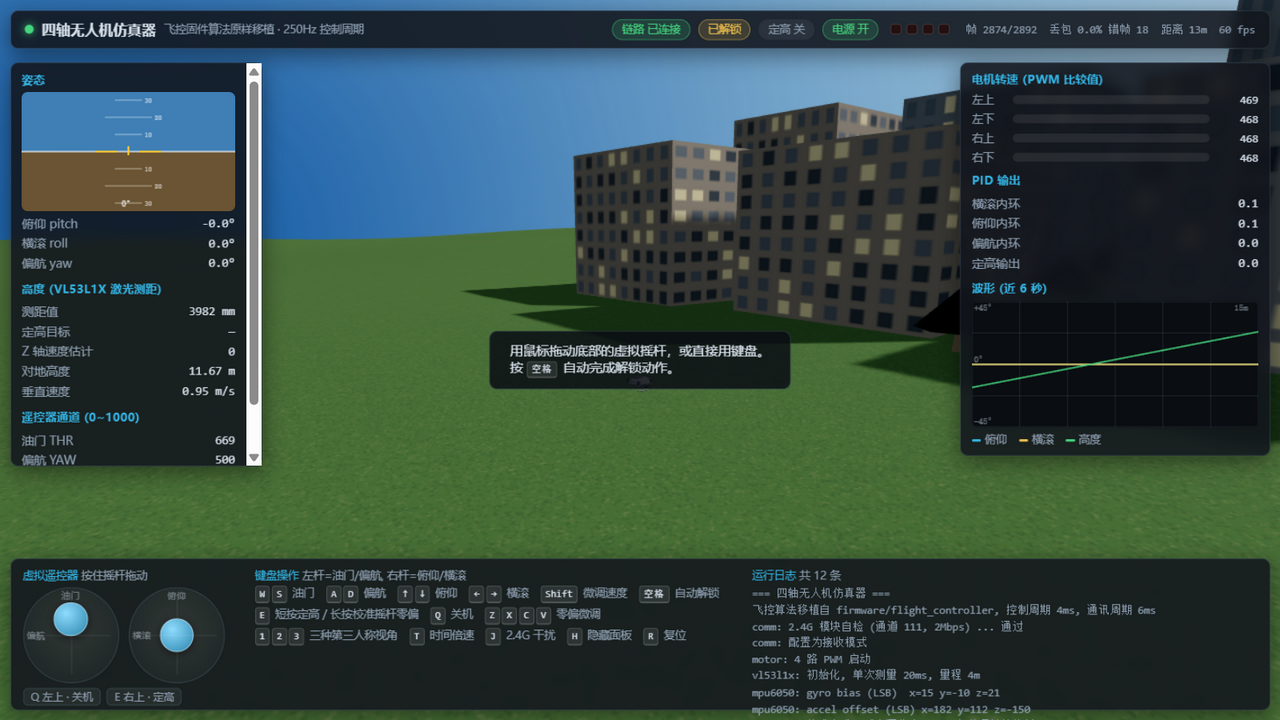
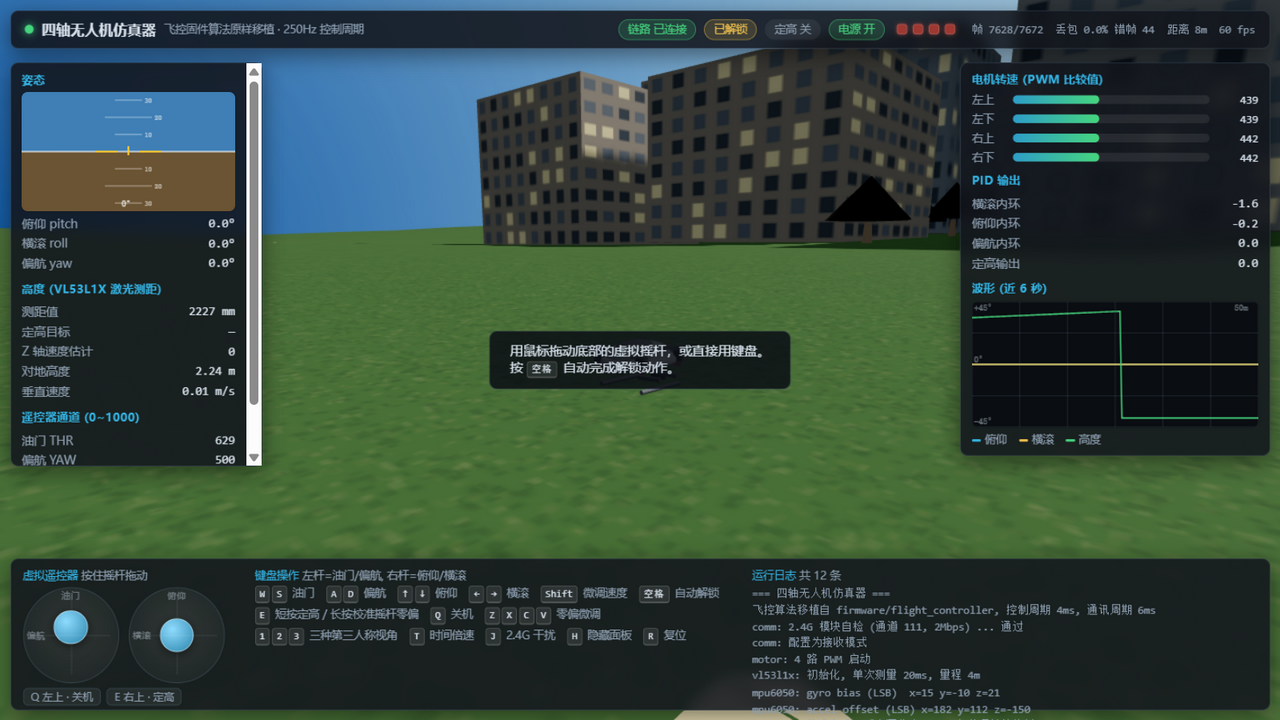
修复摇杆圆点出圈与机身过小, 并修正一处导致桨叶不显示的常量缺失
Bug 1: 键盘推杆时摇杆圆点飞出圆圈
- input.update() 里键盘增量累加后没有限幅, 一直按住方向键会把通道推到
  1000 以上(实测到过 1139), 于是换算旋钮位置时得到 1.26 个半径, 圆点出圈。
  现在四个通道在 update() 末尾统一夹到 0~1000。
- 另外即使限幅到 1000, 旋钮"圆心"也会落在圆周上, 旋钮一半在圈外。
  syncStickDom 改为按"摇杆半径 - 旋钮半径"限制位移, 并把偏移向量限制在
  单位圆内再缩放 —— 只分别夹 x/y 是不够的, 斜向推到底时偏移是单轴的 √2 倍。
  实测: 单轴与斜向推到底, 旋钮外沿距圆心 47.1px < 半径 48px, 全程在圈内。
- 窗口尺寸变化时清掉缓存的像素尺寸(媒体查询会改变摇杆大小)。

Bug 2: 螺旋桨一直没被渲染
- main.js / hud.js 用了 cfg.MOTOR_MAX, 但这个常量从没在 config.js 里定义过
  (它在 state.js 里叫 QC.state.MOTOR_MAX), 于是 `0 / undefined = NaN`:
  桨叶 rotation.z 被写成 NaN 后再也没转回来, 4 个桨全部不显示; HUD 的电机
  转速条也因为 width 拼出 "NaN%" 而被浏览器丢弃, 永远停在 0 宽。
- 规范常量到 config.js(MOTOR_STOP / MOTOR_MAX, 本来就是固件 Com_Config.h 的
  常量), state.js 改为引用它, 避免两处各写一份。
- 桨叶旋转增量加有限性保护: 一旦算出非有限值就跳过这一帧。
- 自检新增两节(共 41 项):
    * 静态扫描全部源码里的 cfg.X / QC.config.X / QC.state.X, 断言都真实存在
    * 逼出饱和输出后断言所有电机值仍落在 0~1000

机身显示放大
- 物理上仍是 0.055kg / 100mm 轴距的微型四轴, 但按 3 倍绘制: 真实尺寸在
  6 米外只有二十来个像素, 看不清姿态。缩放只作用于渲染, 模型起落架底面
  对齐到 group 原点, 所以放大后仍然踩在地面上, 动力学完全不受影响。
- 默认第三人称追尾相机距离 6.5m -> 4.6m, 缩放范围同步调整。

摇杆零偏真正生效
- 微调键(Z/X/C/V)原先只改一个显示数字, 现在按固件的顺序参与通道换算:
  极性映射之后再扣零偏并限幅, 与 App_DataProcess 的 PolarityAndRange +
  JoystickWithBias 一致。

README 图片全部重拍
- 之前的截图里桨叶缺失、机身偏小, 4 张图已用新模型重拍并逐一做了像素校验

diff --git a/simulator/js/world/world.js b/simulator/js/world/world.js
@@ -85,7 +85,8 @@
        没有使用任何大疆的模型或贴图资源。
        机体系: X 前, Y 右, Z 上; 电机位置与 dynamics.js 的 MOTOR_LAYOUT 一致。 */
     function buildDrone() {
-        var g = new THREE.Group();
+        var g = new THREE.Group();        /* 外层: 承担显示缩放 */
+        var inner = new THREE.Group();    /* 内层: 机身部件本身 */
 
         /* 材质: 白色亮面外壳 + 深色机臂 + 金属电机 + 半透明深色桨 */
         var shellMat = new THREE.MeshStandardMaterial({ color: 0xf0f2f4, roughness: 0.34, metalness: 0.06 });
@@ -104,29 +105,29 @@
         lower.scale.set(0.056, 0.043, 0.0135);
         lower.position.set(0, 0, 0.001);
         lower.castShadow = true;
-        g.add(lower);
+        inner.add(lower);
 
         var upper = new THREE.Mesh(new THREE.SphereGeometry(1, 26, 16), shellMat);
         upper.scale.set(0.047, 0.035, 0.016);
         upper.position.set(-0.003, 0, 0.009);
         upper.castShadow = true;
-        g.add(upper);
+        inner.add(upper);
 
         /* 顶部电池盖 */
         var hatch = new THREE.Mesh(new THREE.SphereGeometry(1, 18, 12), shellDark);
         hatch.scale.set(0.033, 0.024, 0.009);
         hatch.position.set(-0.006, 0, 0.017);
-        g.add(hatch);
+        inner.add(hatch);
 
         /* 机头前脸(深色) + 前视避障窗 */
         var face = new THREE.Mesh(new THREE.SphereGeometry(1, 18, 12), shellDark);
         face.scale.set(0.016, 0.033, 0.012);
         face.position.set(0.043, 0, 0.004);
-        g.add(face);
+        inner.add(face);
 
         var visor = new THREE.Mesh(new THREE.BoxGeometry(0.0035, 0.020, 0.007), glassMat);
         visor.position.set(0.0505, 0, 0.005);
-        g.add(visor);
+        inner.add(visor);
 
         var L = QC.config.DRONE.armLength;
         var a = L / Math.SQRT2;
@@ -167,15 +168,15 @@
             arm.rotation.z = Math.atan2(py, px);
             arm.rotation.y = -0.05;
             arm.castShadow = true;
-            g.add(arm);
+            inner.add(arm);
 
             /* 电机座 + 桨帽 */
             var nacelle = new THREE.Mesh(nacelleGeo, motorMat);
             nacelle.position.set(px, py, 0.006);
-            g.add(nacelle);
+            inner.add(nacelle);
             var cap = new THREE.Mesh(capGeo, shellDark);
             cap.position.set(px, py, 0.0125);
-            g.add(cap);
+            inner.add(cap);
 
             /* 桨: 两片对置叶片, 单独一个 Group 以便旋转 */
             var prop = new THREE.Group();
@@ -187,7 +188,7 @@
             }
             var hub = new THREE.Mesh(hubGeo, shellDark);
             prop.add(hub);
-            g.add(prop);
+            inner.add(prop);
             props.push({ mesh: prop, dir: m.c > 0 ? 1 : -1 });
         }
 
@@ -207,7 +208,7 @@
         lens.rotation.z = Math.PI / 2;
         lens.position.set(0.014, 0, -0.011);
         gimbal.add(lens);
-        g.add(gimbal);
+        inner.add(gimbal);
 
         /* --- 起落架: 两条支腿 + 两根滑橇 --- */
         var legGeo = new THREE.CylinderGeometry(0.0026, 0.0032, 0.030, 8);
@@ -218,11 +219,11 @@
             [-1, 1].forEach(function (fx) {
                 var leg = new THREE.Mesh(legGeo, shellDark);
                 leg.position.set(fx * 0.016, s * 0.030, -0.017);
-                g.add(leg);
+                inner.add(leg);
             });
             var skid = new THREE.Mesh(skidGeo, shellDark);
             skid.position.set(0, s * 0.0345, -0.0305);
-            g.add(skid);
+            inner.add(skid);
         });
 
         /* --- 4 个 LED: 与固件一致, 位置对应四个机臂 --- */
@@ -236,10 +237,24 @@
             var led = new THREE.Mesh(ledGeo, ledMats[k]);
             /* 装在电机座下沿, 从侧面能看见 */
             led.position.set(ledPos[k][0] * 0.94, ledPos[k][1] * 0.94, -0.0035);
-            g.add(led);
+            inner.add(led);
         });
 
-        g.traverse(function (o) { if (o.isMesh && o.material !== propMat) o.castShadow = true; });
+        inner.traverse(function (o) { if (o.isMesh && o.material !== propMat) o.castShadow = true; });
+
+        /*
+         * 把模型的最低点(起落架滑橇底面)对齐到 group 的原点, 再整体按
+         * visualScale 放大。这样物理上"飞机在 z = 地面高度"时, 画面上
+         * 起落架正好落在地面上, 放大多少倍都不会陷进地里。
+         */
+        g.add(inner);
+        var box = new THREE.Box3().setFromObject(inner);
+        if (isFinite(box.min.z)) inner.position.z = -box.min.z;
+
+        var vs = QC.config.DRONE.visualScale || 1;
+        g.scale.setScalar(vs);
+        /* 机身尺寸变了, 阴影相机要跟着放宽一点 */
+        g.userData.visualScale = vs;
 
         return { group: g, props: props, ledMats: ledMats };
     }

diff --git a/simulator/js/ui/input.js b/simulator/js/ui/input.js
@@ -98,6 +98,16 @@
                     else a.ROL = approach(a.ROL, 500, rate * selfCenter);
                 }
 
+                /*
+                 * 通道值必须限幅在 0~1000。
+                 * 之前键盘增量累加后没有夹取: 一直按住方向键会把通道推到 1000 以上
+                 * (例如 1139), 于是下面换算旋钮位置时得到 1.26 个半径, 圆点就飞出圆圈了。
+                 */
+                a.THR = clamp(a.THR, 0, 1000);
+                a.YAW = clamp(a.YAW, 0, 1000);
+                a.PIT = clamp(a.PIT, 0, 1000);
+                a.ROL = clamp(a.ROL, 0, 1000);
+
                 /* 虚拟遥控器拖动会直接写 axes, 这里同步一下视图 */
                 input.stickView.leftX = (a.YAW - 500) / 500;
                 input.stickView.leftY = -(a.THR - 500) / 500;
@@ -119,14 +129,19 @@
                 var a = input.axes;
                 function pol_(v, s) { return s < 0 ? (1000 - v) : v; }
 
-                remote.joyStick.THR = Math.round(pol_(clamp(a.THR, 0, 1000), pol.THR));
-                remote.joyStick.YAW = Math.round(pol_(clamp(a.YAW, 0, 1000), pol.YAW));
-                remote.joyStick.PIT = Math.round(pol_(clamp(a.PIT, 0, 1000), pol.PIT));
-                remote.joyStick.ROL = Math.round(pol_(clamp(a.ROL, 0, 1000), pol.ROL));
-
-                /* 微调量叠加到遥控器零偏上(与 App_DataProcess 的微调键一致) */
+                /* 微调量就是遥控器的摇杆零偏, 由 Z/X/C/V 键修改 */
                 remote.joyStickBias.PIT = input.trim.PIT;
                 remote.joyStickBias.ROL = input.trim.ROL;
+
+                /* 极性映射之后再扣零偏并限幅 —— 与固件的
+                   App_DataProcess_JoyStickPolarityAndRange + JoystickWithBias 顺序一致 */
+                function ch(v, s, bias) {
+                    return Math.round(clamp(pol_(clamp(v, 0, 1000), s) - bias, 0, 1000));
+                }
+                remote.joyStick.THR = ch(a.THR, pol.THR, 0);
+                remote.joyStick.YAW = ch(a.YAW, pol.YAW, 0);
+                remote.joyStick.PIT = ch(a.PIT, pol.PIT, remote.joyStickBias.PIT);
+                remote.joyStick.ROL = ch(a.ROL, pol.ROL, remote.joyStickBias.ROL);
 
                 /* 一次性命令 */
                 if (input.cmd.isPowerDown) {
@@ -238,12 +253,41 @@
         for (var i = 0; i < refs.length; i++) {
             var r = refs[i];
             if (!r.knob) continue;
-            /* 水平: 通道值 -> -1..1; 垂直: 油门与俯仰都是"值大在上" */
-            var nx = (a[r.def.horiz] - 500) / 500;
-            var ny = -(a[r.def.vert] - 500) / 500;
-            r.knob.style.left = ((nx + 1) / 2 * 100) + '%';
-            r.knob.style.top = ((ny + 1) / 2 * 100) + '%';
+
+            /*
+             * 旋钮能走多远, 用像素算清楚, 避免圆点跑出圆圈:
+             *   可用位移上限 = 摇杆半径 - 旋钮半径
+             * 用 clientWidth 是因为百分比 left 是相对"内边距盒"解析的,
+             * 而 margin 已经是 -旋钮半径, 所以百分比位置就等于旋钮圆心位置。
+             */
+            if (r.maxOff === undefined) {
+                var W = r.el.clientWidth || 94;              /* 内边距盒宽度 */
+                var knobR = (r.knob.offsetWidth || 34) / 2;
+                r.boxW = W;
+                r.maxOff = Math.max(2, W / 2 - knobR);
+            }
+
+            /* 通道值 -> -1..1; 垂直方向"值大在上" */
+            var nx = clamp((a[r.def.horiz] - 500) / 500, -1, 1);
+            var ny = clamp(-(a[r.def.vert] - 500) / 500, -1, 1);
+
+            /*
+             * 关键: 把 (nx, ny) 当成向量限制在单位圆内再缩放。
+             * 只分别夹 x/y 是不够的 —— 斜向推到底时偏移量是单轴的 2 倍,
+             * 旋钮照样会顶出圆圈。
+             */
+            var len = Math.sqrt(nx * nx + ny * ny);
+            if (len > 1) { nx /= len; ny /= len; }
+
+            r.knob.style.left = (50 + nx * r.maxOff / r.boxW * 100) + '%';
+            r.knob.style.top = (50 + ny * r.maxOff / r.boxW * 100) + '%';
         }
+    }
+
+    /* 窗口尺寸变化后摇杆与旋钮的像素尺寸可能变(媒体查询), 让行程比重新计算 */
+    function resetStickCache() {
+        if (!stickRefs) return;
+        stickRefs.forEach(function (r) { r.maxOff = undefined; });
     }
 
     /**
@@ -319,6 +363,7 @@
         makeInput: makeInput,
         bindVirtualSticks: bindVirtualSticks,
         syncStickDom: syncStickDom,
+        resetStickCache: resetStickCache,
         STICK_DEFS: STICK_DEFS,
         BUTTONS: BUTTONS,
         KEYMAP: KEYMAP

diff --git a/simulator/js/main.js b/simulator/js/main.js
@@ -65,7 +65,7 @@
     var S = {
         simMs: 0,
         camMode: 0,          /* 0 追尾跟随  1 环绕  2 俯视跟随 (全是第三人称) */
-        camDist: 6.5,
+        camDist: 4.6,
         orbitYaw: -0.75,
         orbitPitch: 0.36,
         dragging: false,
@@ -269,7 +269,10 @@
         for (var i = 0; i < world.drone.props.length; i++) {
             var pr = world.drone.props[i];
             var sp = drone.motors[MOTOR_KEYS[i]].speed / cfg.MOTOR_MAX;
-            pr.mesh.rotation.z += (0.4 + sp * 3.6) * 26 * dtS * pr.dir;
+            var spin = (0.4 + sp * 3.6) * 26 * dtS * pr.dir;
+            /* 加个有限性保护: 一旦旋转角被写成 NaN 就再也转不回来了,
+               桨叶会一直不显示 —— 宁可这一帧不转, 也不要毁掉模型 */
+            if (isFinite(spin)) pr.mesh.rotation.z += spin;
         }
 
         MOTOR_KEYS.forEach(function (k) {
@@ -408,14 +411,16 @@
     });
     viewport.addEventListener('wheel', function (e) {
         e.preventDefault();
-        var lo = (S.camMode === 1) ? 1.5 : 2.5;
-        var hi = (S.camMode === 1) ? 90 : (S.camMode === 2 ? 45 : 26);
+        var lo = (S.camMode === 1) ? 1.2 : 2.0;
+        var hi = (S.camMode === 1) ? 90 : (S.camMode === 2 ? 45 : 22);
         S.camDist = QC.math.clamp(S.camDist * (1 + Math.sign(e.deltaY) * 0.12), lo, hi);
     }, { passive: false });
     root.addEventListener('resize', function () {
         renderer.setSize(root.innerWidth, root.innerHeight, false);
         camera.aspect = root.innerWidth / root.innerHeight;
         camera.updateProjectionMatrix();
+        /* 摇杆像素尺寸可能随媒体查询变化, 让旋钮行程重新计算 */
+        QC.input.resetStickCache();
     });
 
     QC.input.bindVirtualSticks(input, document);

diff --git a/simulator/js/config.js b/simulator/js/config.js
@@ -54,6 +54,10 @@
             }
         },
 
+        /* ============ 电机 PWM 比较值范围 (Com_Config.h 的 MOTOR_STOP / MOTOR_MAX) ============ */
+        MOTOR_STOP: 0,
+        MOTOR_MAX: 1000,
+
         /* ==================== 滤波器 (Com_Filter.c) ==================== */
         LOWPASS_ALPHA: 0.8,
         KALMAN_Q: 0.001,
@@ -148,7 +152,15 @@
             linearDrag: 0.055,      /* N/(m/s) 水平气动阻力 */
             verticalDrag: 0.075,    /* N/(m/s) 垂直阻尼 */
             angularDrag: 1.56e-4,   /* N·m/(rad/s) 转动阻尼 */
-            maxSpeedCmd: 1000       /* 固件里的电机限幅上限 */
+            maxSpeedCmd: 1000,      /* 固件里的电机限幅上限 */
+
+            /*
+             * 机身模型的显示放大倍数(只影响画面, 不影响动力学)。
+             * 物理上这是一台 0.055kg / 100mm 轴距的微型四轴, 按真实尺寸画的话
+             * 在 6 米外只有二十来个像素, 看不清姿态; 所以按 3 倍绘制,
+             * 视觉尺寸接近 300mm 级的消费级机型 —— 也正是机身外观参考的那一级。
+             */
+            visualScale: 3.0
         },
 
         /* ==================== IMU 安装方向 (仿真引入) ==================== */

diff --git a/simulator/js/fw/state.js b/simulator/js/fw/state.js
@@ -17,8 +17,8 @@
     var LOC = { LEFT_TOP: 0, LEFT_BOTTOM: 1, RIGHT_TOP: 2, RIGHT_BOTTOM: 3 };
     /* LED 状态: 0 常亮, 1 常灭, >=2 闪烁翻转周期 */
     var LED_ON = 0, LED_OFF = 1;
-    /* 电机转速范围 (对应 MOTOR_STOP / MOTOR_MAX) */
-    var MOTOR_STOP = 0, MOTOR_MAX = 1000;
+    /* 电机转速范围: 统一从 config 取, 避免两处各写一份导致不一致 */
+    var MOTOR_STOP = cfg.MOTOR_STOP, MOTOR_MAX = cfg.MOTOR_MAX;
 
     function makeDroneState() {
         /* 4 个 LED; pinOn 表示引脚电平(仿真里 LED 是低电平点亮) */

diff --git a/simulator/README.md b/simulator/README.md
@@ -80,7 +80,7 @@ python -m http.server 8000
 
 以下截图都是仿真器真实运行的画面（1280×720）。
 
-**低空悬停 · 机身特写**（环绕视角）——机身外观参考了大疆消费级四轴的设计语言：白色圆润外壳、深色机臂、机头下方的云台相机、两条起落架。全部用基本几何体程序化生成，**没有使用任何大疆的模型或贴图资源**。
+**低空悬停 · 机身特写**（环绕视角）——机身外观参考了大疆消费级四轴的设计语言：白色圆润外壳、深色机臂、机头下方的云台相机、两条起落架。全部用基本几何体程序化生成，**没有使用任何大疆的模型或贴图资源**。模型按 3 倍绘制（物理上它是 100mm 轴距的微型四轴，按真实尺寸在画面里太小看不清姿态；缩放只影响渲染，动力学不变）。
 
 ![机身特写](../docs/images/sim-01-aircraft.png)
 
@@ -203,6 +203,7 @@ node simulator/tools/tune.mjs
 | VL53L1X 只按量程截断 + 加噪声 | 没有真实芯片的距离状态码（量程外/信号弱等） |
 | 射频链路是概率模型（距离衰减 + 遮挡 + 比特错误） | 不是真实的 2.4G 信道仿真 |
 | 沿用的固定 0.5ms 时间片 | 真机是抢占式调度，有任务切换开销 |
+| 机身按 3 倍绘制 | 视觉尺寸接近 300mm 级机型，与 100mm 轴距的物理模型不一致（只影响观感） |
 
 另外，仿真里能观察到两个**固件本身的特点**（不是仿真的 bug）：
 

diff --git a/docs/05-仿真器.md b/docs/05-仿真器.md
@@ -180,6 +180,8 @@ node simulator/tools/selftest.mjs
 
 **外观参考的是大疆消费级四轴的设计语言，不是大疆的模型或贴图**——没有任何外部资源文件，全部代码生成，因此也没有版权问题。四个 LED 的位置对应固件的四个机臂，颜色直接由固件灯控任务算出的引脚电平驱动。
 
+模型按 **3 倍**绘制（`config.DRONE.visualScale`）。物理上这是一台 0.055 kg / 100 mm 轴距的微型四轴，按真实尺寸画的话在 6 米外只有二十来个像素，根本看不清姿态；放大后视觉尺寸接近 300mm 级的消费级机型，也正是外观参考的那一级。缩放只作用于渲染——模型的起落架底面被对齐到 group 原点，所以放大多少倍都仍然"踩"在地面上，动力学完全不受影响。
+
 相机提供了三种**第三人称**视角（相机始终在机身外部）：
 
 | 视角 | 相机位置 | 用途 |
